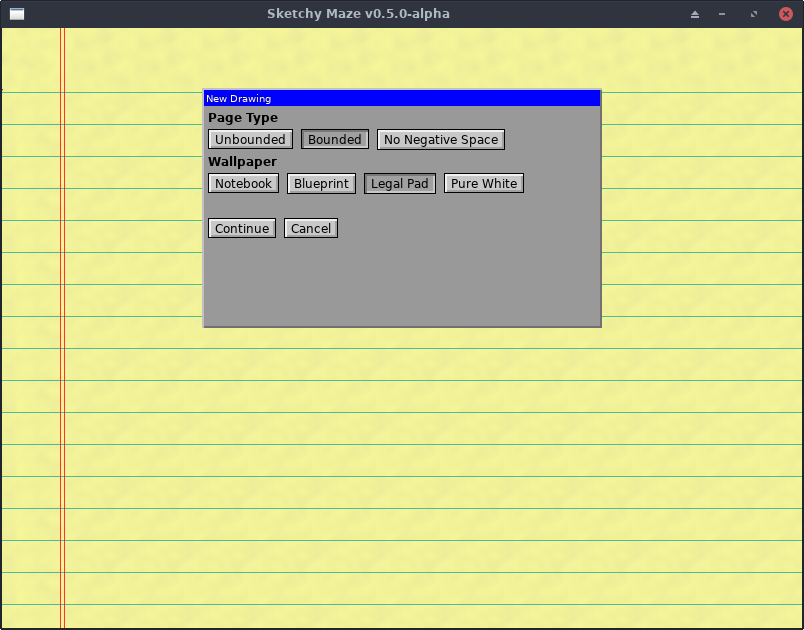
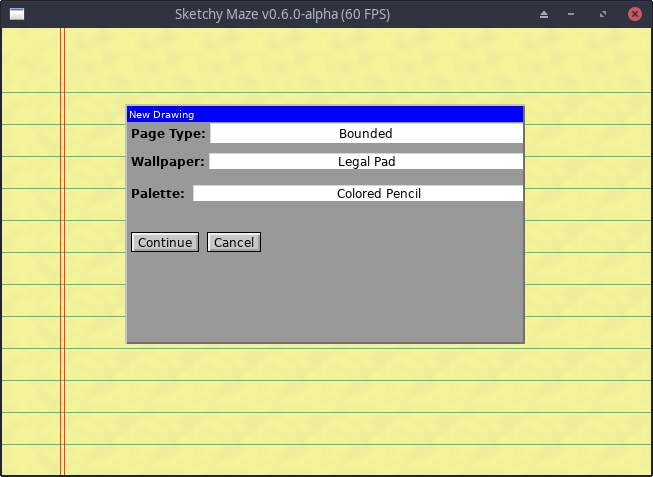
Update Guidebook for v0.6.0

diff --git a/docs/custom-levels/index.md b/docs/custom-levels/index.md
@@ -33,6 +33,8 @@ You can change these settings later if you change your mind.
 
 ### Wallpaper
 
+![Wallpaper options on New Level](../images/palettes.png)
+
 The wallpaper affects the "theme" of your level. Sketchy Maze is themed around
 hand-drawn mazes on paper, so the built-in themes look like various kinds of
 paper.
@@ -42,10 +44,19 @@ paper.
   margin on the top and left edges.
 * **Legal Pad** looks like ruled yellow legal pad. It's similar to Notebook but
   has yellow paper and a second vertical red line down the left.
+* **Graph paper** `new in v0.6.0` is a white paper with a repeating grid pattern
+  of light-grey lines about 32px each; a darker dotted gray grid every 3x3 units;
+  and a teal grid every 6x6 units. A light version of Blueprint.
+* **Dotted paper** `new in v0.6.0` is a white page with a repeating pattern of
+  single dots every 32 pixels apart. Most dots are light blue but with a grid of
+  red dots every 6x6 units. It has the same grid spacing as the Graph paper.
 * **Blueprint** is a dark blueprint paper background with a repeating grid pattern.
-  Notably, the default Color Palette for this theme is different than normal:
-  "solid" lines are white instead of black, to show up better against the dark
-  background.
+  A dark version of Graph paper; you'll want to pair it with the **Blueprint Palette**
+  which has light colors for level geometry by default.
+* **Pure White** is a blank, white (#FFFFFE) background color with nothing going
+  on except for what you draw on your level.
+* **Custom wallpaper...** lets you use your own wallpaper image. See
+  [Custom Wallpaper](custom-wallpaper.md).
 
 The decorations of the wallpaper vary based on the Page Type. For example, the
 Notebook and Legal Pad have extra padding on the top of the page and red lines
@@ -57,6 +68,39 @@ lines pattern. The page types and their effect on the wallpapers are:
   corner.
 * **Unbounded** levels only use the repeating tiled pattern across the entire
   level, because there is no top-left boundary to anchor those decorations to.
+
+### Default Palette
+
+When starting a **new** level, you may choose a default Palette to start out
+with. The available options as of **version 0.6.0** are:
+
+* **Default:** the classic palette from previous alpha game releases.
+    1. **solid**: black, solid geometry
+    2. **decoration**: light grey
+    3. **fire**: red, fire
+    4. **water**: blue, water
+* **Colored Pencil:** a new palette with some more varied default colors.
+    1. **grass**: green, solid geometry
+    2. **dirt**: brown, solid
+    3. **stone**: dark grey, solid
+    4. **fire**: red, fire
+    5. **water**: light blue (#0099FF), water
+* **Blueprint:** the classic palette for levels with the Blueprint wallpaper:
+    1. **solid**: white, solid
+    2. **decoration:** light grey
+    3. **fire**: light red (#FF5000), fire
+    4. **water**: light blue (#0099FF), water
+    5. **electric**: yellow, solid
+
+In earlier alpha versions of the game, the Blueprint palette was chosen by
+default when the level starts out with the Blueprint wallpaper, which has a
+very dark background color and Blueprint was basically a bright version of
+the Default palette. As of v0.6.0, the user can select the palette separately
+from the wallpaper.
+
+If you're using the Blueprint wallpaper, pick the Colored Pencil or Blueprint
+palettes for best results: the default black color for level geometry won't
+show well on the Blueprint wallpaper!
 
 ## Editor Interface
 
@@ -107,57 +151,6 @@ Quick 5-second overview of the editor interface:
       color, rename it, and set its properties. See [Color Attributes](#color-attributes)
 
 ---
-
-## Palette Editor
-
-![Screenshot of the Level Palette editor](../images/palette.png)
-
-Clicking the "Tools" menu and "Edit Palette", or the Edit button on the
-palette toolbar on the right side of the screen, will open the palette editor.
-
-Levels are designed to have a limited color palette, and this is your selection
-of colors for the level or doodad you're drawing. You can click on "Add Color"
-to create more rows as needed.
-
-> **NOTICE:** Modifying the color of an existing swatch on your Palette will also
-> change any pixels _already on your level_ to the new color. Drawings in this
-> game use an indexed palette, similar to GIF and some PNG images!
-
-### Color Attributes
-
-The **Attributes** column toggles behaviors on or off for this color. In the default
-color palette, black pixels make up your **solid** level geometry, red pixels are
-**fire**, and blue pixels are **water**.
-
-By default the color will be purely decorative, not physically colliding with the
-player or affecting them in any way.
-
-The attributes and their meanings are:
-
-* **Solid**: the player character and other mobile doodads will collide against
-  pixels drawn in this color. Useful for your level geometry.
-* **Fire**: if the player touches pixels of this color, they die!
-* **Water**: will act like water, currently it just draws the player blue.
-
-### Changing Colors
-
-Clicking on the colored square will prompt you to enter a new color in
-hexadecimal notation, like `#FF00FF` for <span style="color: #FF00FF">magenta</span>
-or `#0099FF` for <span style="color: #0099FF">light blue</span>. Colors can
-be entered in the following formats (the # prefix is actually optional):
-
-* 3-digit hexadecimal: `#F0F` or `#09F`
-* 6-digit hexadecimal: `#0099FF` or `#FC390E`
-* 8-digit RGBA: `#0000FF99` - a color with semi-transparency!
-
-You can set the color to be **semi-transparent** by providing the 8-digit RGBA
-color code; the extra two digits control the transparency between 00 (fully
-invisible) and FF (fully opaque).
-
-![Enter an RGBA color value for see-thru colors](../images/palette-rgba.png)
-
-> Pictured: I have set the "solid" color to #000000**33** giving it an alpha
-> value -- making it semi transparent against the level wallpaper.
 
 ## Doodad Tool
 
@@ -227,6 +220,70 @@ When the button is released, it sends a "power off" signal and the door closes.
 
 See the [Doodads](../doodads.md) page for a description of the game's built-in
 doodads and how they interact with each other.
+
+---
+
+## Palette Editor
+
+![Screenshot of the Level Palette editor](../images/palette.png)
+
+The Palette is the set of colors that you draw your actual level with. In your
+default palette, some colors are designated as "solid" and will be used for the
+walls and floors of your level, while others may be "fire" or "water" or just
+decoration (not colliding with the player characters).
+
+You may edit or extend the palette to your liking. By Clicking the "Tools" menu
+and "Edit Palette", or clicking the "Edit" button on the palette toolbar on the
+right side of the screen, you will open the Palette Editor.
+
+Levels are designed to have a limited color palette, and this is your selection
+of colors for the level or doodad you're drawing. You can click on "Add Color"
+to create more rows as needed. There isn't a maximum bounds on number of distinct
+colors, however, the user interface will not accommodate too many of them. This
+game is themed around "hand-drawn maps on paper" and pretend each color is a pen
+or marker and how many distinct colors do you need?
+
+> **NOTICE:** Modifying the color of an existing swatch on your Palette will also
+> change any pixels _already on your level_ to the new color. Drawings in this
+> game use an indexed palette, similar to GIF and some PNG images!
+
+### Color Attributes
+
+The **Attributes** column toggles behaviors on or off for this color. In the default
+color palette, black pixels make up your **solid** level geometry, red pixels are
+**fire**, and blue pixels are **water**.
+
+By default the color will be purely decorative, not physically colliding with the
+player or affecting them in any way.
+
+The attributes and their meanings are:
+
+* **Solid**: the player character and other mobile doodads will collide against
+  pixels drawn in this color. Useful for your level geometry.
+* **Fire**: if the player touches pixels of this color, they die!
+* **Water**: will act like water, currently it just draws the player blue.
+
+### Changing Colors
+
+Clicking on the colored square will prompt you to enter a new color in
+hexadecimal notation, like `#FF00FF` for <span style="color: #FF00FF">magenta</span>
+or `#0099FF` for <span style="color: #0099FF">light blue</span>. Colors can
+be entered in the following formats (the # prefix is actually optional):
+
+* 3-digit hexadecimal: `#F0F` or `#09F`
+* 6-digit hexadecimal: `#0099FF` or `#FC390E`
+* 8-digit RGBA: `#0000FF99` - a color with semi-transparency!
+
+You can set the color to be **semi-transparent** by providing the 8-digit RGBA
+color code; the extra two digits control the transparency between 00 (fully
+invisible) and FF (fully opaque).
+
+![Enter an RGBA color value for see-thru colors](../images/palette-rgba.png)
+
+> Pictured: I have set the "solid" color to #000000**33** giving it an alpha
+> value -- making it semi transparent against the level wallpaper.
+
+---
 
 ## Menu Bar
 

diff --git a/docs/custom-levels/custom-wallpaper.md b/docs/custom-levels/custom-wallpaper.md
@@ -1,0 +1,153 @@
+# Custom Wallpaper
+
+![Custom wallpaper](../images/custom-wallpaper.png)
+
+Sketchy Maze v0.6.0 introduces the ability to use your own custom wallpaper
+image to go behind your level.
+
+You may use any common image type (PNG, JPEG, or GIF) as a wallpaper image and
+it will be tiled across your level following the game's rules. For best results,
+a wallpaper image should be crafted according to the guidelines on this page.
+
+## How Wallpapers Work
+
+Any (reasonably) sized image will work as a wallpaper, depending on the
+resolution you need. The image does not need to be square. The game will
+divide your wallpaper image into four quadrants:
+
+![Illustration of a wallpaper image divided into four quadrants](../images/wallpaper-template.png)
+
+The above image is the game's default Notebook wallpaper with the four quadrants
+of the image highlighted. The game will slice your wallpaper into four equal
+quarters and tile them depending on a level's Page Type. Rectangular wallpapers
+work fine too, just the quadrants will also be rectangular.
+
+The bottom-right quadrant (**Tiled Main**) is the main repeating background image
+that covers the entire level. Unbounded levels will use _only_ this part of the
+wallpaper.
+
+Levels that have a top-left corner (Bounded and No Negative Space) will draw
+from the other three quadrants when decorating these edges of the level:
+
+* **Top Left:** the top-left corner of the page; drawn exactly one time per
+  level, where it is anchored to the top-left (0,0) coordinate of the level.
+* **Tiled Top:** the top margin of the page; tiled horizontally across the entire
+  top edge of the level.
+* **Tiled Left:** the left margin of the page; tiled vertically across the entire
+  left edge of the level.
+
+## Making a Simple Tiled Wallpaper
+
+If you already have a tiled pattern you want to use as a wallpaper, and want
+the simplest way to use that pattern with Sketchy Maze, the quick steps are:
+
+1. Suppose your original texture is 64x64 pixels and it tiles in all directions.
+2. Create a new image twice the size of the original (128x128 pixels), and
+   copy/paste your texture into it 4 times. So you now have a 128x128 version of
+   your original 64x64 and it tiles all the same.
+3. Pick your new 128x128 texture in Sketchy Maze.
+
+If you have ImageMagick handy at the command line, this command would do this
+up-tiling work:
+
+```bash
+# where clouds.jpg was a 512x512 pixel repeating texture,
+# create a twice-size image tiled from the original, now
+# you have a 1024x1024 up-tiled version of the original.
+convert -size 1024x1024 tile:clouds.jpg clouds-2x.jpg
+```
+
+## Example Wallpapers
+
+Here are a couple of examples you can use. Right-click and save these images
+and then select them as your custom wallpaper in Sketchy Maze:
+
+### Blue Notebook
+
+![Blue Notebook](../images/blue-notebook.png)
+
+A light blue version of the default Notebook paper.
+
+### Clouds
+
+![Clouds](../images/clouds.png)
+
+The wallpaper used in the screenshot at the top of this page. Full-color
+JPEG quality photos work fine as wallpapers. This image was created via the
+[Making a Simple Tiled Wallpaper](#making-a-simple-tiled-wallpaper) process
+detailed above.
+
+## Extracting Wallpapers
+
+Getting a wallpaper back _out_ of a level is not currently an easy task, but
+it can be done using the [`doodad` tool](../doodad-tool.md) on the command line
+to inspect your level file.
+
+Your custom levels are saved in your [profile directory](../profile-directory.md),
+so point the `doodad` command at your files therein. The `doodad show` command
+will show if a level has any attached files, such as wallpaper images:
+
+```bash
+$ doodad show example.level
+===== Level: example.level =====
+Headers:
+  File version: 1
+  Game version: 0.6.0-alpha
+   Level title: Alpha
+        Author: kirsle
+      Password:
+        Locked: false
+
+Palette:
+  - Swatch name: solid
+    Attributes:  solid
+    Color:       #000000
+  - Swatch name: decoration
+    Attributes:  none
+    Color:       #999999
+  - Swatch name: fire
+    Attributes:  fire
+    Color:       #ff0000
+  - Swatch name: water
+    Attributes:  water
+    Color:       #0000ff
+
+Level Settings:
+  Page type: Bounded
+   Max size: 2550x3300
+  Wallpaper: custom.b64img
+
+Attached Files:
+  assets/wallpapers/custom.b64img: 1156 bytes
+
+Actors:
+  Level contains 0 actors
+  Use -actors or -verbose to serialize Actors
+
+Chunks:
+  Pixels Per Chunk: 128^2
+  Number Generated: 0
+  Coordinate Range: (0,0) ... (127,127)
+  World Dimensions: 127x127
+  Use -chunks or -verbose to serialize Chunks
+```
+
+The "Attached Files:" section shows the names and sizes of any files embedded
+in the level, or "None" if none.
+
+You can get the data of an attached file with `doodad show --attachment=<file>`:
+
+```bash
+$ doodad show --attachment=assets/wallpapers/custom.b64img example.level
+```
+
+The image is encoded in Base64 so the above command would spit out a bunch
+of random numbers and letters. If you pipe it into a base64 decoder you can
+save it as an image file:
+
+```bash
+# (the -a is a shortcut for --attachment)
+$ doodad show -a assets/wallpapers/custom.b64img example.level | base64 -d > out.png
+```
+
+Future releases of the game may make this process easier.

diff --git a/docs/changes.md b/docs/changes.md
@@ -1,5 +1,39 @@
 # Changes
 
+## v0.6.0-alpha (June 6 2021)
+
+This release brings less jank and some new features.
+
+The new features:
+
+* **Choice of Default Palette for New Levels:** when creating a new level, a
+  "Palette:" option appears which allows you to set the default colors to start
+  your level with. The options include:
+    * Default: the classic default 4 colors (black, grey, red, blue).
+    * Colored Pencil: a set with more earthy tones for outdoorsy levels
+      (grass, dirt, stone, fire, water)
+    * Blueprint: the classic Blueprint wallpaper theme, a bright version of Default
+      for dark level backgrounds.
+* **Custom Wallpapers:** unhappy with the default, paper-themed level background
+  images? You can now use your own! They attach to your level data for easy
+  transport when sharing your level with others.
+* **More Wallpapers:** a couple of new default wallpapers are added: Graph paper
+  and Dotted paper. They are both on light white paper and offer a light
+  alternative to Blueprint.
+
+Some bugs fixed:
+
+* **Collision fixes:** you should be able to walk up gentle slopes to the left
+  without jumping, as easily as you could to the right.
+* **Debugging:** the F4 key to show collision hitboxes around all doodads in
+  Play Mode now functions again, and draws boxes around _all_ doodads, not just the
+  player character.
+* **Hitboxes are tighter:** a doodad's declared hitbox size (from their JavaScript)
+  is used when a doodad collides against level geometry or other doodads. Meaning:
+  Boy, who has a narrow body but a square sprite size, now collides closer with
+  objects on his right side.
+* **Physics are tweaked:** Boy now moves and accelerates slightly faster.
+
 ## v0.5.0-alpha (Mar 31 2021)
 
 Project: Doodle is renamed to Sketchy Maze in this release.
